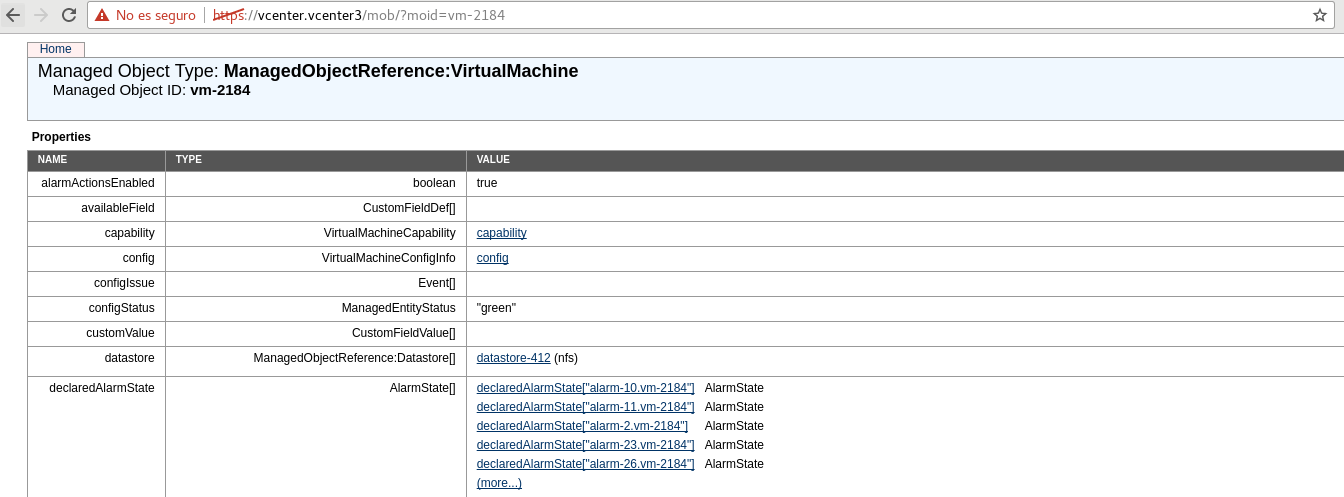
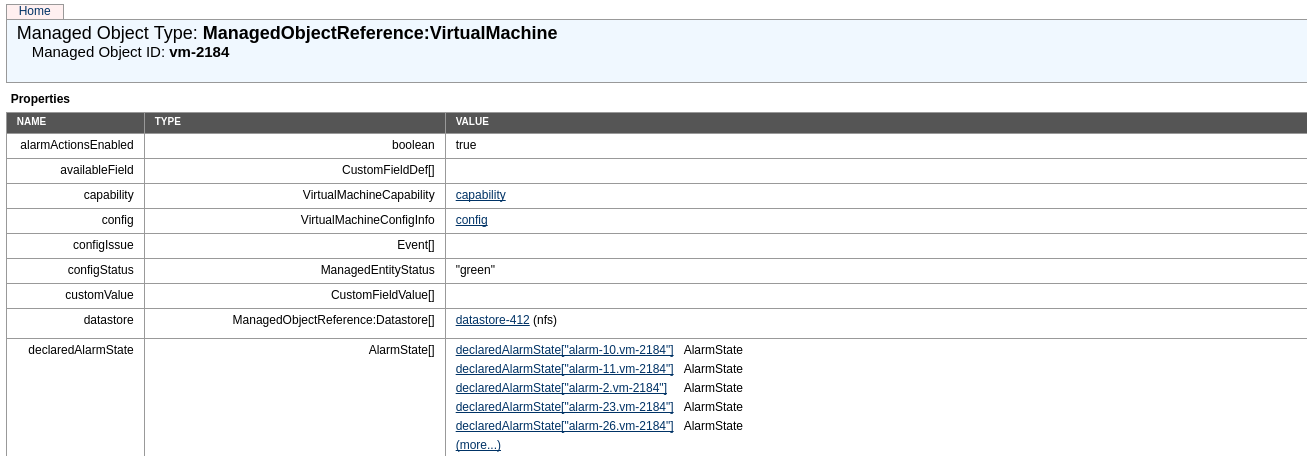
M #-: Update vcenter ref driver guide

Changed region(s): [[0.0, 0.0, 1.0, 1.0], [0.0, 0.614, 0.0306, 0.6447], [0.0, 0.5526, 0.0306, 0.5833]]

diff --git a/source/integration_and_development/infrastructure_drivers_development/vcenter_driver.rst b/source/integration_and_development/infrastructure_drivers_development/vcenter_driver.rst
@@ -49,19 +49,19 @@ In vSphere's web client, when we click on a resource in the Inventory like a Vir
 Here you have two examples where you can find the instance uuid and the moref:
 
 .. image:: /images/vcenter_moref_url1.png
-    :width: 50%
+    :width: 80%
     :align: center
 
 .. image:: /images/vcenter_moref_url2.png
-    :width: 50%
+    :width: 80%
     :align: center
 
-If you want to get information about a resource, you can use the Managed Object Browser provided by VMWare, which is listens on https://x.x.x.x/mob/ where x.x.x.x is the FQDN/IP of your vCenter instance. Use your vSphere credentials and you can browse a resource using an URL like this https://x.x.x.x/mob/?moid=yyyyy where yyyyy is the moref of the resource you want to browse.
+If you want to get information about a resource, you can use the Managed Object Browser provided by VMware, which is listens on https://x.x.x.x/mob/ where x.x.x.x is the FQDN/IP of your vCenter instance. Using your vSphere credentials you can browse a resource using an URL like this https://x.x.x.x/mob/?moid=yyyyy where yyyyy is the moref of the resource.
 
 This a screenshot of a virtual machine browsed by the Managed Object Browser:
 
 .. image:: /images/vcenter_mob_browser.png
-    :width: 50%
+    :width: 70%
     :align: center
 
 
@@ -70,17 +70,15 @@ VMware VM Templates and OpenNebula
 
 In OpenNebula, Virtual Machines are deployed from VMware VM Templates that **must exist previously in vCenter and must be imported into OpenNebula**. There is a one-to-one relationship between each VMware VM Template and the equivalent OpenNebula VM Template. Users will then instantiate the OpenNebula VM Template and OpenNebula will create a Virtual Machine clone from the vCenter template.
 
-.. note:: VMs launched in vCenter through OpenNebula can access VMware advanced features and it can be managed through the OpenNebula provisioning portal -to control the life-cycle, add/remove NICs, make snapshots- or through vCenter (e.g. to move the VM to another datastore or migrate it to another ESX). OpenNebula will poll vCenter to detect these changes and update its internal representation accordingly.
+VMs launched in vCenter through OpenNebula can access VMware advanced features and it can be managed through the OpenNebula provisioning portal -to control the life-cycle, add/remove NICs, make snapshots-. It is not recommended to manage them through vCenter. Changes in ESX locatoin made by DRS will be detected by OpenNebula and update its internal representation accordingly.
 
-.. note:: Changes to the VM Template in vCenter (like for instance migrate its disk to another datastore) are not supported. If any change is made to the vCenter VM Template, it needs to be reimported into OpenNebula.
+.. warning:: Changes to the VM Template in vCenter (like for instance migrate its disk to another datastore) are not supported. If any change is made to the vCenter VM Template, it needs to be reimported into OpenNebula.
 
-There is no need to convert your current Virtual Machines or Templates, or import/export them through any process; once ready just save them as VM Templates in vCenter, following `this procedure <http://pubs.vmware.com/vsphere-55/index.jsp?topic=%2Fcom.vmware.vsphere.vm_admin.doc%2FGUID-FE6DE4DF-FAD0-4BB0-A1FD-AFE9A40F4BFE_copy.html>`__ and import it into OpenNebula as explained later in this chapter.
+There is no need to convert your current Virtual Machines or VM Templates; once you have a VM ready just save them as VM Templates in vCenter, following `this procedure <http://pubs.vmware.com/vsphere-55/index.jsp?topic=%2Fcom.vmware.vsphere.vm_admin.doc%2FGUID-FE6DE4DF-FAD0-4BB0-A1FD-AFE9A40F4BFE_copy.html>`__ and import it into OpenNebula.
 
 When a VMware VM Template is imported, OpenNebula will detect any virtual disk and network interface within the template. For each virtual disk, OpenNebula will create an OpenNebula image representing each disk discovered in the template. In the same way, OpenNebula will create a network representation for each standard or distributed port group associated to virtual network interfaces found in the template.
 
-.. warning:: The process that discovers virtual disks and networks and then creates OpenNebula representations take some time depending on the number of discovered resources and the operations that must be performed so be patient.
-
-The following sections explain some features that are related with vCenter templates and virtual machines deployed by OpenNebula.
+The following sections explain some features that are related with vCenter VM Templates and virtual machines deployed by OpenNebula.
 
 .. _vcenter_linked_clones_description:
 
@@ -89,28 +87,30 @@ Linked Clones
 
 In OpenNebula, a new VM is deployed when a clone of an existing vCenter template is created, that's why OpenNebula requires that templates are first created in vCenter and then imported into OpenNebula.
 
-In VMWare there are two types of cloning operations:
+In VMware there are two types of cloning operations:
 
 * The Full Clone. A full clone is an independent copy of a template that shares nothing with the parent template after the cloning operation. Ongoing operation of a full clone is entirely separate from the parent template. This is the default clone action in OpenNebula.
+
 * The Linked Clone. A linked clone is a copy of a template that shares virtual disks with the parent template in an ongoing manner. This conserves disk space, and allows multiple virtual machines to use the same software installation.
 
 When the **onevcenter** tool is used to import a vCenter template, as explained later, you'll be able to specify if you want to use linked clones when the template is imported. Note that if you want to use linked clones, OpenNebula has to create delta disks on top of the virtual disks that are attached to the template. This operation will modify the template so you may prefer that OpenNebula creates a copy of the template and modify that template instead, the onevcenter tool will allow you to choose what you prefer to do.
 
-.. important:: Linked clone disks cannot be resized.
 
-.. note:: Sunstone does not allow you to specify if you want to use Linked Clones as the operations involved are heavy enough to keep them out of the GUI.
+Sunstone does not allow you to specify if you want to use Linked Clones as the operations involved are heavy enough to keep them out of the GUI.
+
+.. important:: Linked clone disks cannot be resized.
 
 .. _vcenter_folder_placement:
 
 VM Placement
 ~~~~~~~~~~~~~~~~~~~~~~~~~~~~~~~~~~~~~~~~~~~~~~~~~~~~~~~~~~~~~~~~~~~~~~~~~~~~~~~~
 
-In OpenNebula, by default, a new virtual machine cloned from a vCenter template will be displayed in the same folder where the template lives in vSphere's VM and Templates inventory. However you have the chance to select in which folder you want to see the VM's based on that template.
+In OpenNebula, by default, a new virtual machine cloned from a vCenter template will be displayed in the same folder where the template lives in vSphere's VM and VM Templates inventory. However you have the chance to select in which folder you want to see the VM's based on that template.
 
 For example, if you have the following directory tree and you want VMs to be placed in the VMs folder under Management, the path to that folder from the datacenter root would be /Management/VMs. You can use that path in different OpenNebula actions e.g when a template is imported.
 
 .. image:: /images/vcenter_vm_folder_placement.png
-    :width: 35%
+    :width: 40%
     :align: center
 
 
@@ -119,10 +119,7 @@ For example, if you have the following directory tree and you want VMs to be pla
 Resource Pools in OpenNebula
 --------------------------------------------------------------------------------
 
-OpenNebula can place VMs in different Resource Pools. There are two approaches to achieve this:
-
-* fixed per Cluster basis
-* flexible per VM Template basis.
+OpenNebula can place VMs in different Resource Pools, and can do so using two approaches.
 
 Fixed per Cluster basis
 ~~~~~~~~~~~~~~~~~~~~~~~~~~~~~~~~~~~~~~~~~~~~~~~~~~~~~~~~~~~~~~~~~~~~~~~~~~~~~~~~
@@ -137,9 +134,8 @@ In the fixed per Cluster basis approach, the vCenter connection that OpenNebula 
 * Add a new attribute called VCENTER_RESOURCE_POOL to OpenNebula's host template representing the vCenter cluster (for instance, in the info tab of the host, or in the CLI), with the reference to a Resource Pool.
 
 .. image:: /images/vcenter_resource_pool_cluster.png
-    :width: 50%
+    :width: 80%
     :align: center
-
 
 Flexible per VM Template
 ~~~~~~~~~~~~~~~~~~~~~~~~~~~~~~~~~~~~~~~~~~~~~~~~~~~~~~~~~~~~~~~~~~~~~~~~~~~~~~~~
@@ -174,14 +170,10 @@ The VCENTER_RESOURCE_POOL has the following elements:
 * TestResourcePool/NestedResourcePool,TestResourcePool: that's the list of Resource Pool references separeted with commas that are available to the user.
 * TestResourcePool/NestedResourcePool: is the default Resource Pool that will be selected on the list.
 
-.. note:: As we'll see later, the import tools provided by OpenNebula will create the VCENTER_RESOURCE_POOL attribute easily.
-
-Using Sunstone we have the same actions described for the onevcenter tool.
-
-If we want to specify a Resource Pool we should select Fixed from the Type drop-down menu and introduce the reference under Default Resource Pool:
+The import process guides the OpenNbula admin and creates the VCENTER_RESOURCE_POOL attribute so it doesn't need to be hand-crafted. If we want to specify a Resource Pool we should select Fixed from the Type drop-down menu and introduce the reference under Default Resource Pool:
 
 .. image:: /images/vcenter_resource_pool_fixed_sunstone.png
-    :width: 50%
+    :width: 65%
     :align: center
 
 If we wanted to offer a list to the user:
@@ -191,7 +183,7 @@ If we wanted to offer a list to the user:
 * We would introduce the references of the Resource Pools that we want to include in the list, using a comma to separate values.
 
 .. image:: /images/vcenter_resource_pool_list_sunstone.png
-    :width: 50%
+    :width: 65%
     :align: center
 
 
@@ -251,7 +243,7 @@ Snapshot limitations
 
 OpenNebula treats **snapshots** a tad different than VMware. OpenNebula assumes that they are independent, whereas VMware builds them incrementally. This means that OpenNebula will still present snapshots that are no longer valid if one of their parent snapshots are deleted, and thus revert operations applied upon them will fail. The snapshot preserves the state and data of a virtual machine at a specific point in time including disks, memory, and other devices, such as virtual network interface cards so this operation may take some time to finish.
 
-vCenter impose some limitations and its behavior may differ from vCenter 5.5 to 6.5. If you create a snapshot in OpenNebula note the following limitations:
+If you create a snapshot in OpenNebula note the following limitations:
 
 - **It's not a good idea to add or detach disks or nics if you have created a snapshot**. DISKs and NICs elements will be removed from your OpenNebula VM and if you revert to your snapshot, those elements that were added or removed won't be added again to OpenNebula VM and vCenter configuration may not be in sync with OpenNebula's representation of the VM. It would be best to remove any snapshot, perform the detach actions and then create a snapshot again affecting operations.
 - If despite the previous point you try to detach a disk while the VM is powered on, OpenNebula will not allow this action. If you detach the disk while the VM is in POWEROFF OpenNebula will remove the DISK element but the disk won't be removed from vCenter.

diff --git a/source/overview/opennebula_concepts/index.rst b/source/overview/opennebula_concepts/index.rst
@@ -7,6 +7,6 @@ OpenNebula Concepts
 .. toctree::
    :maxdepth: 2
 
-   OpenNebula Overview <opennebula_components>
+   OpenNebula Overview <opennebula_overview>
    Key Features <key_features>
    Terminology <terminology>
